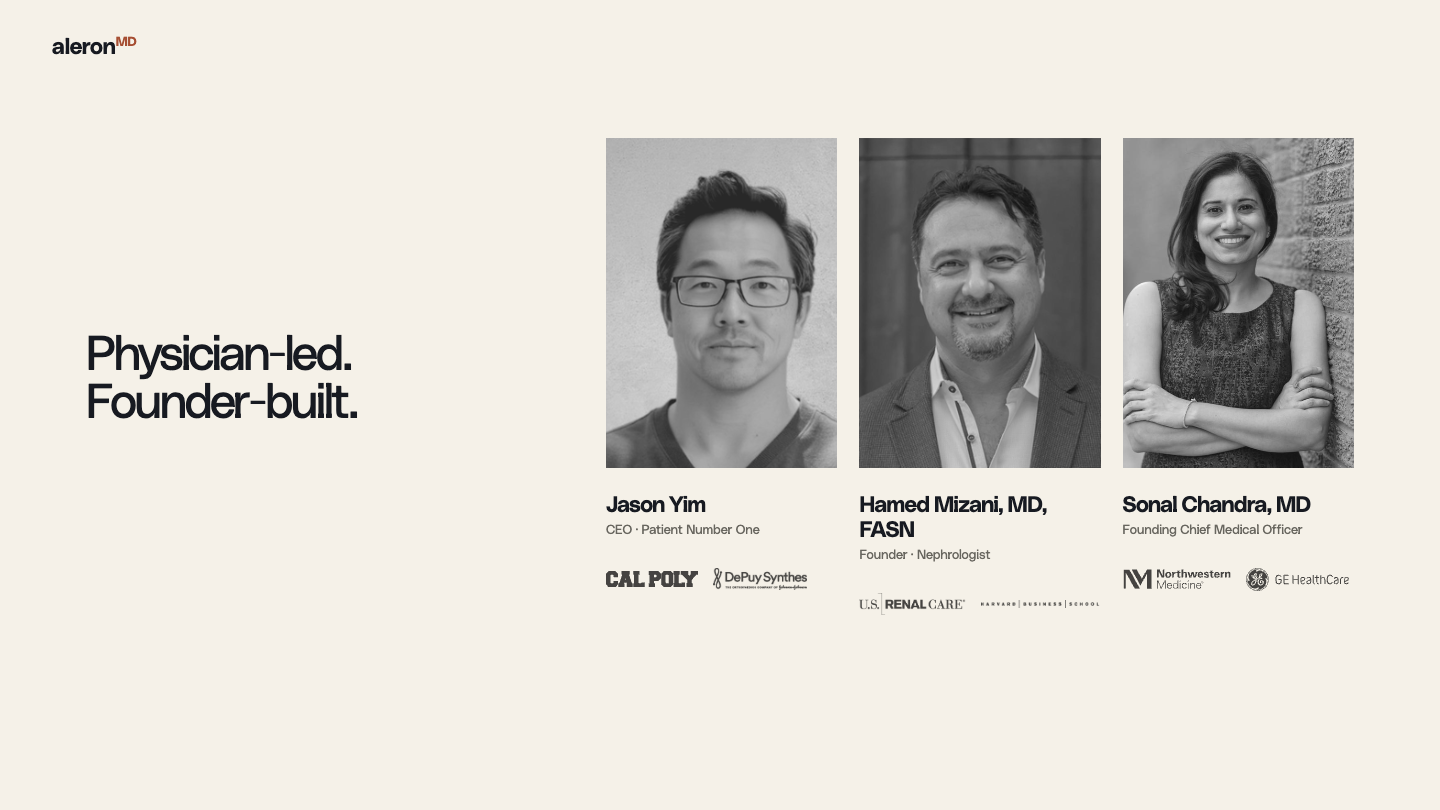
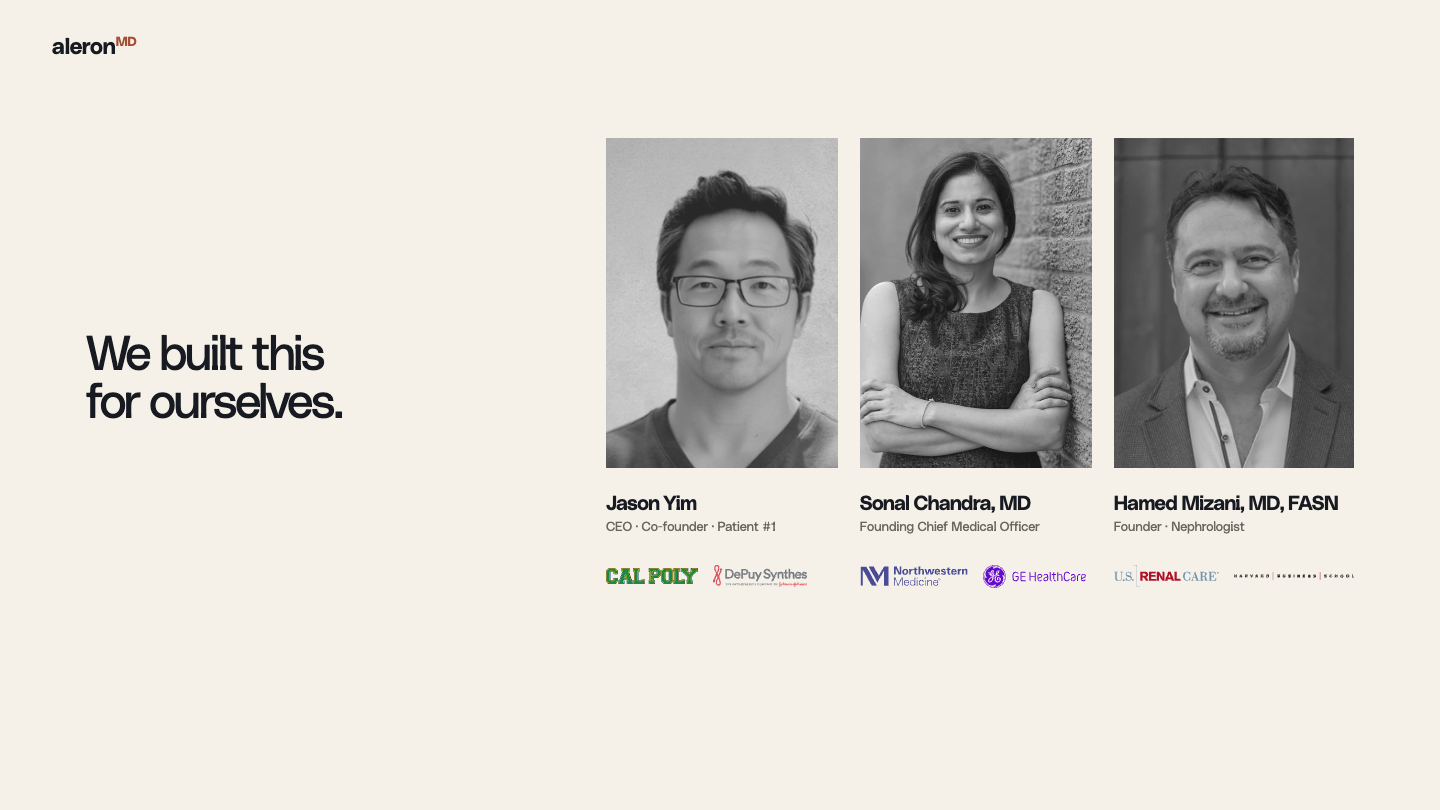
Refine selected founding team slide

Changed region(s): [[0.5938, 0.1543, 0.9375, 0.7716], [0.0625, 0.4012, 0.25, 0.5247], [0.4062, 0.6173, 0.5625, 0.7407]]

diff --git a/prototypes/team-slide-minimal/C.html b/prototypes/team-slide-minimal/C.html
@@ -1,1 +1,1 @@
-<!doctype html><html><head><meta charset="utf-8"><link rel="stylesheet" href="style.css"><style>.slide{padding:138px 86px 60px}.heading{font-size:48px;line-height:1;letter-spacing:-.045em;width:460px;position:absolute;left:86px;top:330px}.grid{margin-left:520px;display:grid;grid-template-columns:repeat(3,1fr);gap:22px}.portrait{width:100%;height:330px;object-position:center 27%;margin-bottom:20px}.grid article:nth-child(3) .portrait{object-position:center 35%}.name{font-size:22px}.role{max-width:200px}.logos{gap:15px;margin-top:22px}.logos img{max-width:92px;max-height:23px}.logos .wide{max-width:108px}.logos .hbs{max-width:120px}</style></head><body><main class="slide"><div class="mark">aleron<span>MD</span></div><div class="heading">Physician-led.<br>Founder-built.</div><section class="grid"><article><img class="portrait" src="assets/portraits/jason.png"><div class="name">Jason Yim</div><div class="role">CEO · Patient Number One</div><div class="logos"><img class="" src="assets/logos/cal-poly.svg"><img class="wide" src="assets/logos/depuy-synthes-transparent.png"></div></article><article><img class="portrait" src="assets/portraits/hamed.png"><div class="name">Hamed Mizani, MD, FASN</div><div class="role">Founder · Nephrologist</div><div class="logos"><img class="wide" src="assets/logos/us-renal-care.png"><img class="hbs" src="assets/logos/hbs-transparent.png"></div></article><article><img class="portrait" src="assets/portraits/sonal.png"><div class="name">Sonal Chandra, MD</div><div class="role">Founding Chief Medical Officer</div><div class="logos"><img class="wide" src="assets/logos/northwestern.svg"><img class="ge" src="assets/logos/ge-healthcare.svg"></div></article></section></main></body></html>
+<!doctype html><html><head><meta charset="utf-8"><link rel="stylesheet" href="style.css"><style>.slide{padding:138px 86px 60px}.heading{font-size:48px;line-height:1;letter-spacing:-.045em;width:460px;position:absolute;left:86px;top:330px}.grid{margin-left:520px;display:grid;grid-template-columns:repeat(3,1fr);gap:22px}.portrait{width:100%;height:330px;object-position:center 27%;margin-bottom:20px}.grid article:nth-child(3) .portrait{object-position:center 35%}.name{font-size:20px;white-space:nowrap}.role{max-width:220px}.logos{gap:15px;margin-top:22px}.logos img{max-width:92px;max-height:23px}.logos .wide{max-width:108px}.logos .hbs{max-width:120px}</style></head><body><main class="slide"><div class="mark">aleron<span>MD</span></div><div class="heading">We built this<br>for ourselves.</div><section class="grid"><article><img class="portrait" src="assets/portraits/jason.png"><div class="name">Jason Yim</div><div class="role">CEO · Co-founder · Patient #1</div><div class="logos"><img class="" src="assets/logos/cal-poly.svg"><img class="wide" src="assets/logos/depuy-color.svg"></div></article><article><img class="portrait" src="assets/portraits/sonal.png"><div class="name">Sonal Chandra, MD</div><div class="role">Founding Chief Medical Officer</div><div class="logos"><img class="wide" src="assets/logos/northwestern.svg"><img class="ge" src="assets/logos/ge-healthcare.svg"></div></article><article><img class="portrait" src="assets/portraits/hamed.png"><div class="name">Hamed Mizani, MD, FASN</div><div class="role">Founder · Nephrologist</div><div class="logos"><img class="wide" src="assets/logos/usrc-color.svg"><img class="hbs" src="assets/logos/hbs-color.svg"></div></article></section></main></body></html>

diff --git a/prototypes/team-slide-minimal/style.css b/prototypes/team-slide-minimal/style.css
@@ -1,1 +1,1 @@
-@font-face{font-family:Poly;src:url(../../assets/fonts/PolySansVF.woff2)}:root{--paper:#f5f1e8;--ink:#171a21;--rust:#a64e32}*{box-sizing:border-box}html,body{margin:0;background:#ddd8ce;font-family:Poly,Arial;color:var(--ink)}body{display:grid;place-items:center;min-height:100vh}.slide{width:1440px;height:810px;background:var(--paper);position:relative;overflow:hidden}.mark{position:absolute;left:52px;top:34px;font-size:22px;font-weight:700;z-index:5}.mark span{color:var(--rust);font-size:13px;vertical-align:top}.nav{position:fixed;right:18px;top:14px;z-index:9;background:#111a2b;padding:8px 12px;border-radius:30px}.nav a{font-size:12px;color:white;text-decoration:none;opacity:.45;margin:0 7px}.nav a.on{opacity:1;color:#e6a47e}.portrait{filter:grayscale(1);object-fit:cover}.name{font-size:25px;font-weight:680;letter-spacing:-.025em}.role{font-size:13px;color:#68665f;margin-top:5px}.logos{display:flex;align-items:center;gap:24px;height:40px;margin-top:18px}.logos img{display:block;max-width:112px;max-height:28px;object-fit:contain;filter:grayscale(1) brightness(0);opacity:.72}.logos .wide{max-width:142px}.logos .hbs{max-width:160px}.logos .ge{max-width:105px}
+@font-face{font-family:Poly;src:url(../../assets/fonts/PolySansVF.woff2)}:root{--paper:#f5f1e8;--ink:#171a21;--rust:#a64e32}*{box-sizing:border-box}html,body{margin:0;background:#ddd8ce;font-family:Poly,Arial;color:var(--ink)}body{display:grid;place-items:center;min-height:100vh}.slide{width:1440px;height:810px;background:var(--paper);position:relative;overflow:hidden}.mark{position:absolute;left:52px;top:34px;font-size:22px;font-weight:700;z-index:5}.mark span{color:var(--rust);font-size:13px;vertical-align:top}.nav{position:fixed;right:18px;top:14px;z-index:9;background:#111a2b;padding:8px 12px;border-radius:30px}.nav a{font-size:12px;color:white;text-decoration:none;opacity:.45;margin:0 7px}.nav a.on{opacity:1;color:#e6a47e}.portrait{filter:grayscale(1);object-fit:cover}.name{font-size:25px;font-weight:680;letter-spacing:-.025em}.role{font-size:13px;color:#68665f;margin-top:5px}.logos{display:flex;align-items:center;gap:24px;height:40px;margin-top:18px}.logos img{display:block;max-width:112px;max-height:28px;object-fit:contain;opacity:1}.logos .wide{max-width:142px}.logos .hbs{max-width:160px}.logos .ge{max-width:105px}

diff --git a/prototypes/team-slide-minimal/index.html b/prototypes/team-slide-minimal/index.html
@@ -1,1 +1,1 @@
-<!doctype html><html><head><meta charset="utf-8"><title>Aleron team slide</title><style>@font-face{font-family:Poly;src:url(../../assets/fonts/PolySansVF.woff2)}*{box-sizing:border-box}body{margin:0;padding:42px;background:#121b2d;color:#f5f1e8;font-family:Poly,Arial}h1{font-size:36px;margin:0 0 30px}.grid{display:grid;gap:30px}.card{background:#202b3d;padding:12px}.card img{width:100%;display:block}.card a{display:block;color:#f0a278;text-decoration:none;font-size:18px;padding:12px 4px 2px}</style></head><body><h1>Team slide directions</h1><main class="grid"><article class="card"><img src="screens/A.png"><a href="A.html">A. Editorial triptych</a></article><article class="card"><img src="screens/B.png"><a href="B.html">B. Full-bleed triptych</a></article><article class="card"><img src="screens/C.png"><a href="C.html">C. Quiet founder statement</a></article></main></body></html>
+<!doctype html><html><head><meta charset="utf-8"><meta http-equiv="refresh" content="0; url=C.html"><title>Aleron founding team</title></head><body><a href="C.html">Open the selected founding-team slide</a></body></html>
